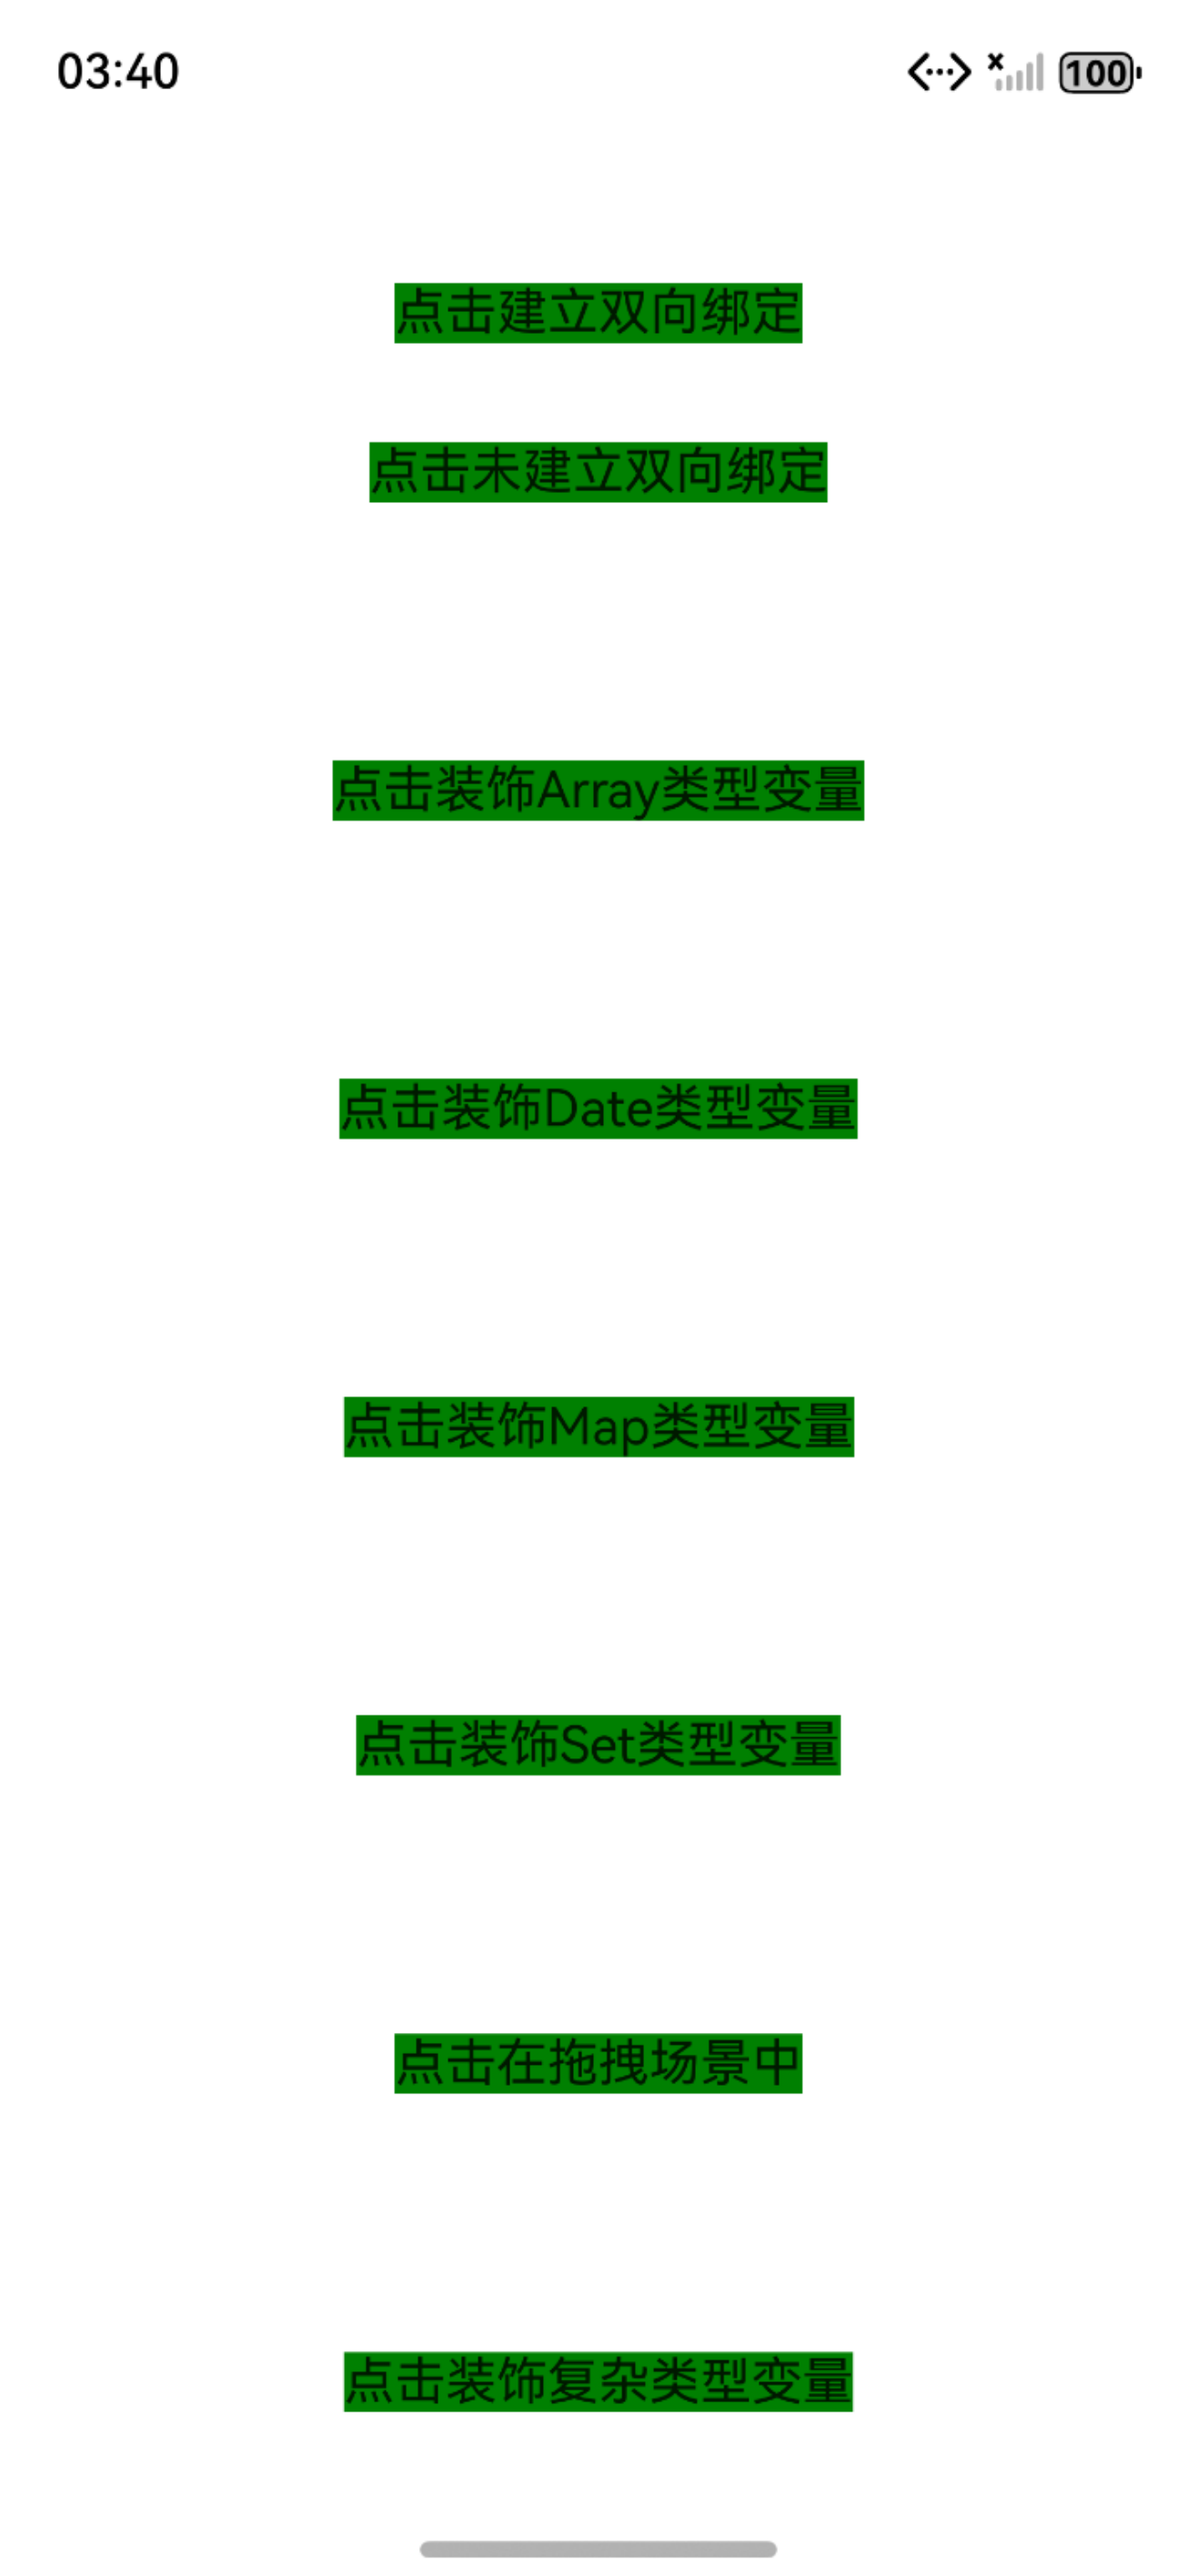
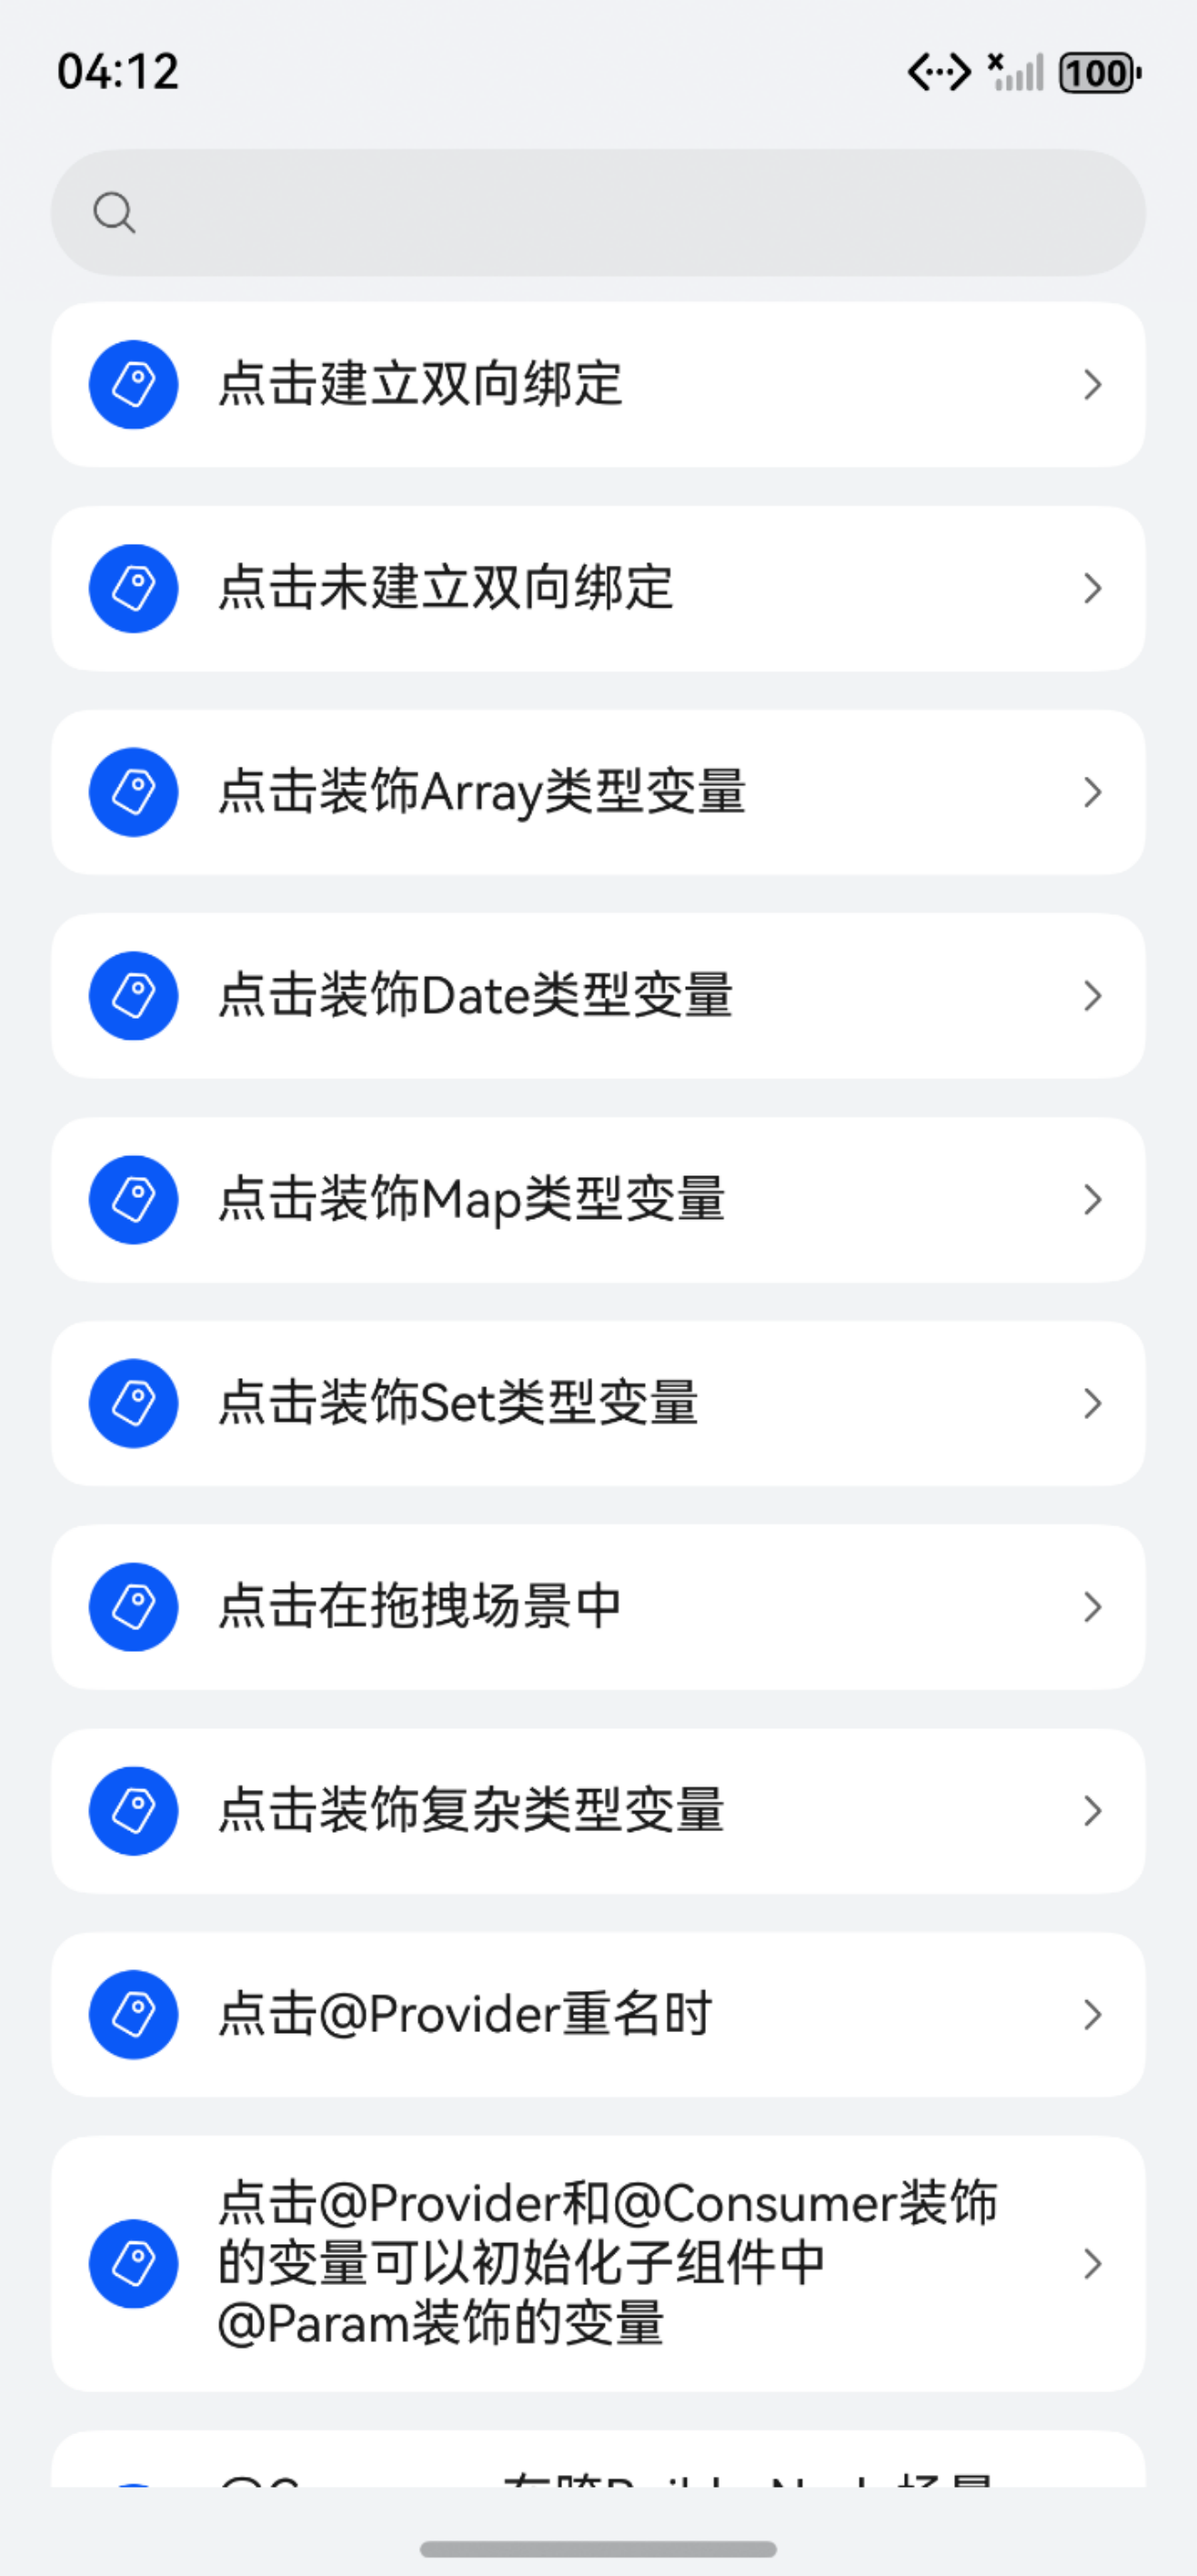
ProviderConsumer sample issues fix.

diff --git a/code/DocsSample/ArkUISample/ProviderConsumer/README_zh.md b/code/DocsSample/ArkUISample/ProviderConsumer/README_zh.md
@@ -1,13 +1,15 @@
-# ArkUI使用滚动类指南文档示例
+# @Provider装饰器和@Consumer装饰器指南文档示例
 
 ### 介绍
 
-本示例展示了[@Once：初始化同步一次](https://gitcode.com/openharmony/docs/blob/master/zh-cn/application-dev/ui/arkts-color-effect.md)装饰器的使用方法：
+@Provider和@Consumer用于跨组件层级数据双向同步，可以使得开发者不用拘泥于组件层级。
+
+@Provider和@Consumer属于状态管理V2装饰器，所以只能在@ComponentV2中才能使用，在@Component中使用会编译报错。
 
 使用说明：
 1. 该工程可以选择在模拟器和开发板上运行。
 2. 点击构建，即可在生成的应用中点击对应的按钮，观察自定义占位节点的不同应用。
-3. 进入”DocsSample/ArkUISample/internationalization/entry/src/ohosTest/ets/test/index.test.ets“文件，可以对本项目进行UI的自动化测试。
+3. 进入”DocsSample/ArkUISample/ProviderConsumer/entry/src/ohosTest/ets/test/index.test.ets“文件，可以对本项目进行UI的自动化测试。
 ### 效果预览
 
 | 首页                                 | 列表类组件目录                            | 列表中显示数据示例                            |
@@ -29,6 +31,7 @@
 entry/src/main/ets/
 |---entryability
 |---homePage
+|   |---BuilderNode.ets                    @Consumer在跨BuilderNode场景下和@Provider建立双向同步过程
 |   |---CodeFirst.ets                      点击第一段代码
 |   |---CodeSecond.ets                     点击第二段代码
 |   |---CodeThree.ets                      点击第三段代码
@@ -42,8 +45,6 @@ entry/src/main/ets/
 |   |---NoTwowayBinding.ets                点击未建立双向绑定
 |   |---ProviderSame.ets                   点击@Provider重名时
 |   |---TwowayBinding.ets                  点击未建立双向绑定
-  
-
 |---pages
 |   |---Index.ets                       // 应用主页面
 entry/src/ohosTest/
